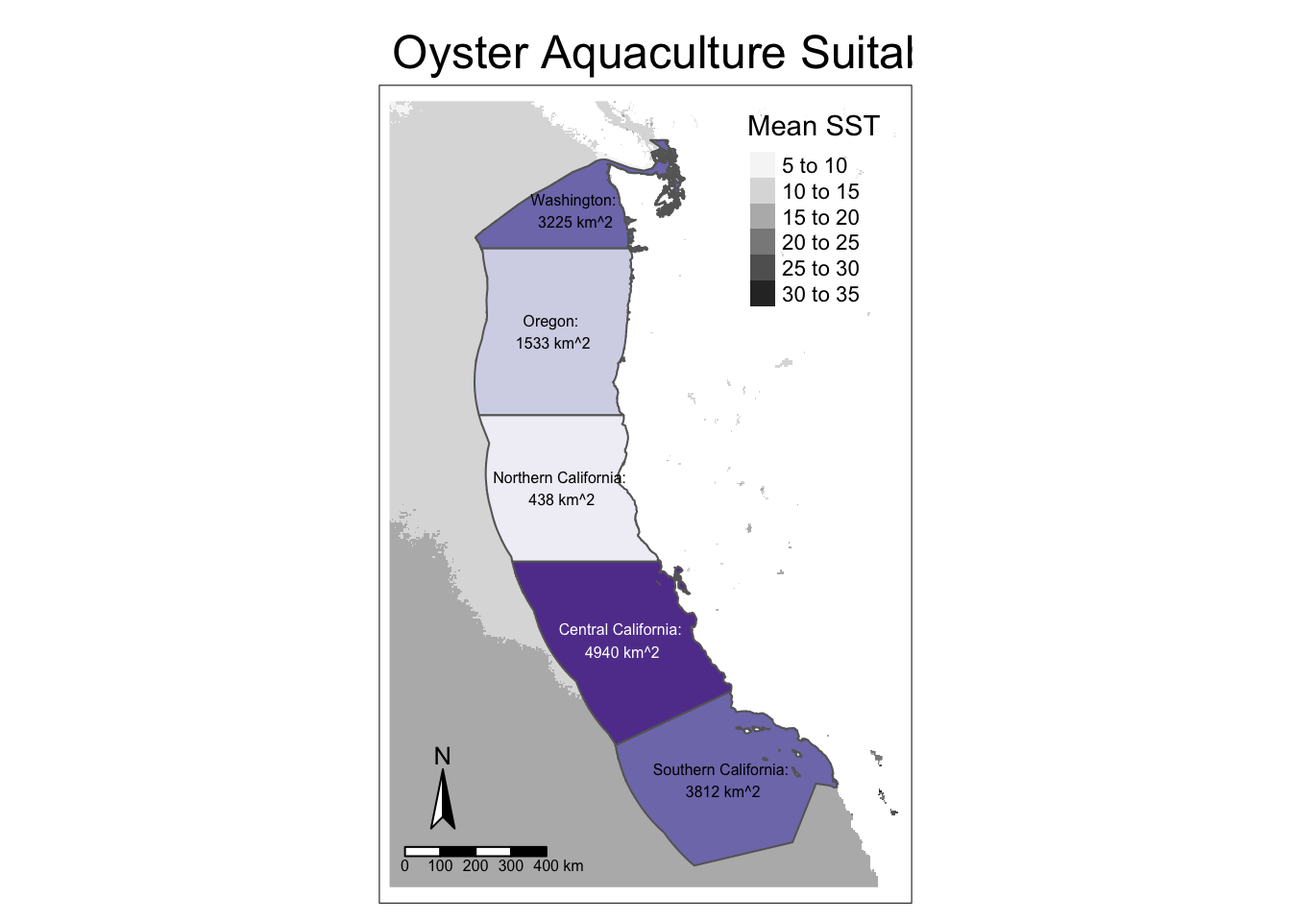
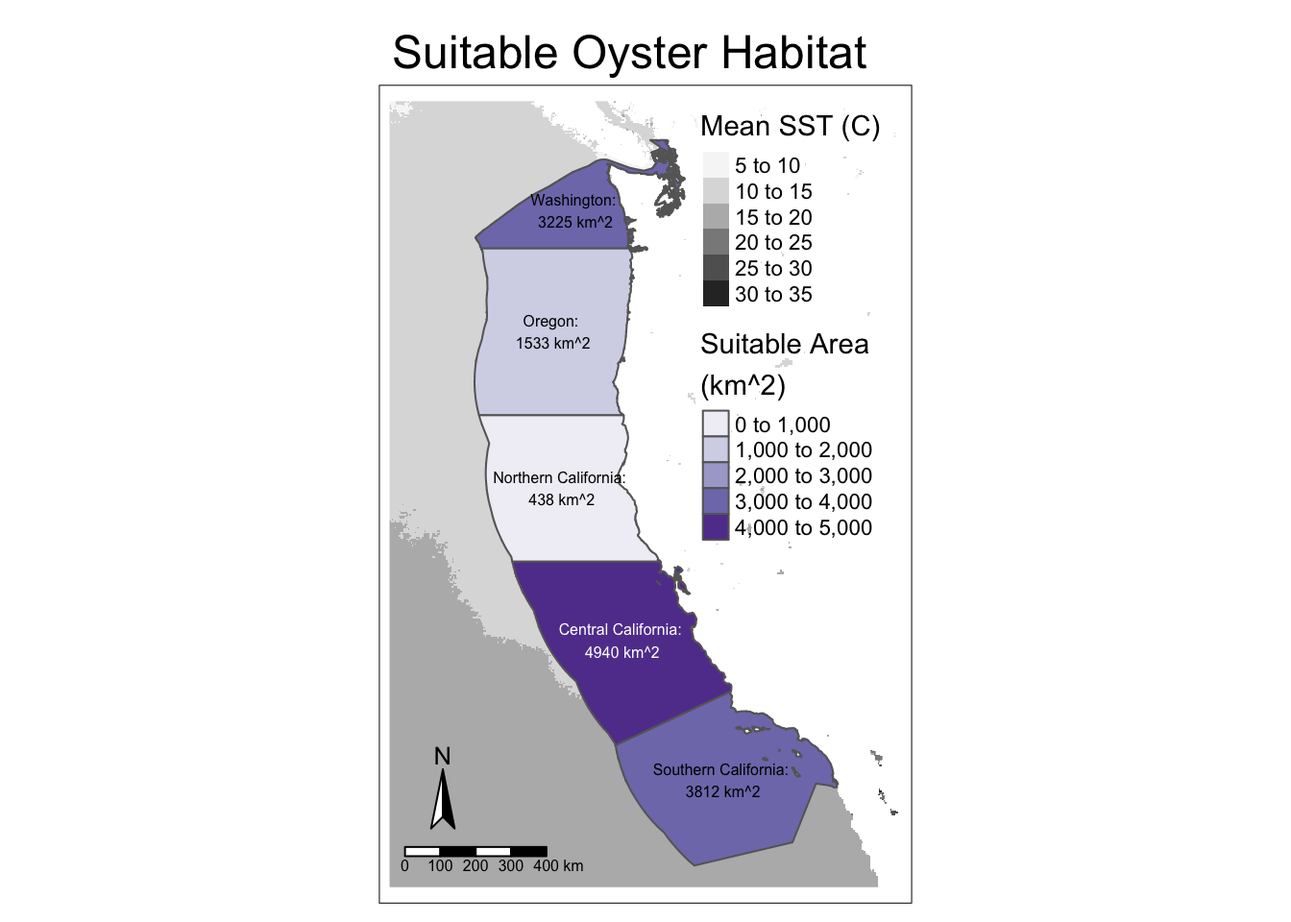
Final touches to HW4.

Changed region(s): [[0.5312, 0.125, 0.6875, 0.5938], [0.2812, 0.0312, 0.7188, 0.0938]]

diff --git a/functions.html b/functions.html
@@ -7,9 +7,9 @@
 <meta name="viewport" content="width=device-width, initial-scale=1.0, user-scalable=yes">
 
 <meta name="author" content="Carmen Hoyt">
-<meta name="dcterms.date" content="2024-11-29">
+<meta name="dcterms.date" content="2024-11-30">
 
-<title>Homework Assignment #4 Functions</title>
+<title>Homework Assignment #4: Prioritizing Potential Aquaculture</title>
 <style>
 code{white-space: pre-wrap;}
 span.smallcaps{font-variant: small-caps;}
@@ -83,7 +83,8 @@ pre > code.sourceCode > span > a:first-child::before { text-decoration: underlin
   <ul>
   <li><a href="#import-packages" id="toc-import-packages" class="nav-link active" data-scroll-target="#import-packages">Import packages</a></li>
   <li><a href="#read-in-data" id="toc-read-in-data" class="nav-link" data-scroll-target="#read-in-data">Read in data</a></li>
-  <li><a href="#suitability-function" id="toc-suitability-function" class="nav-link" data-scroll-target="#suitability-function">Suitability Function:</a></li>
+  <li><a href="#suitability-function" id="toc-suitability-function" class="nav-link" data-scroll-target="#suitability-function">Suitability Function</a></li>
+  <li><a href="#use-function" id="toc-use-function" class="nav-link" data-scroll-target="#use-function">Use Function</a></li>
   <li><a href="#data-sources" id="toc-data-sources" class="nav-link" data-scroll-target="#data-sources">Data Sources</a></li>
   </ul>
 </nav>
@@ -92,8 +93,8 @@ pre > code.sourceCode > span > a:first-child::before { text-decoration: underlin
 
 <header id="title-block-header" class="quarto-title-block default">
 <div class="quarto-title">
-<h1 class="title">Homework Assignment #4 Functions</h1>
-<p class="subtitle lead">Prioritizing potential aquaculture</p>
+<h1 class="title">Homework Assignment #4: Prioritizing Potential Aquaculture</h1>
+<p class="subtitle lead">Suitability Function</p>
 </div>
 
 
@@ -110,7 +111,7 @@ pre > code.sourceCode > span > a:first-child::before { text-decoration: underlin
     <div>
     <div class="quarto-title-meta-heading">Published</div>
     <div class="quarto-title-meta-contents">
-      <p class="date">November 29, 2024</p>
+      <p class="date">November 30, 2024</p>
     </div>
   </div>
   
@@ -143,7 +144,7 @@ pre > code.sourceCode > span > a:first-child::before { text-decoration: underlin
 <h2 class="anchored" data-anchor-id="read-in-data">Read in data</h2>
 <div class="cell">
 <details class="code-fold">
-<summary>Code</summary>
+<summary>Expand code</summary>
 <div class="sourceCode cell-code" id="cb2"><pre class="sourceCode r code-with-copy"><code class="sourceCode r"><span id="cb2-1"><a href="#cb2-1" aria-hidden="true" tabindex="-1"></a><span class="co"># Read in EEZ data</span></span>
 <span id="cb2-2"><a href="#cb2-2" aria-hidden="true" tabindex="-1"></a>west_coast_eez <span class="ot">&lt;-</span> <span class="fu">read_sf</span>(here<span class="sc">::</span><span class="fu">here</span>(<span class="st">"data"</span>, <span class="st">"wc_regions_clean.shp"</span>))</span>
 <span id="cb2-3"><a href="#cb2-3" aria-hidden="true" tabindex="-1"></a></span>
@@ -151,7 +152,7 @@ pre > code.sourceCode > span > a:first-child::before { text-decoration: underlin
 <span id="cb2-5"><a href="#cb2-5" aria-hidden="true" tabindex="-1"></a>bathymetry <span class="ot">&lt;-</span> stars<span class="sc">::</span><span class="fu">read_stars</span>(here<span class="sc">::</span><span class="fu">here</span>(<span class="st">"data"</span>, <span class="st">"depth.tif"</span>))</span>
 <span id="cb2-6"><a href="#cb2-6" aria-hidden="true" tabindex="-1"></a>bathymetry <span class="ot">&lt;-</span> <span class="fu">rast</span>(bathymetry)</span>
 <span id="cb2-7"><a href="#cb2-7" aria-hidden="true" tabindex="-1"></a></span>
-<span id="cb2-8"><a href="#cb2-8" aria-hidden="true" tabindex="-1"></a><span class="co"># Read in and rasterize sst data</span></span>
+<span id="cb2-8"><a href="#cb2-8" aria-hidden="true" tabindex="-1"></a><span class="co"># Read in and rasterize SST (sea surface temp) data</span></span>
 <span id="cb2-9"><a href="#cb2-9" aria-hidden="true" tabindex="-1"></a>sst_rasters <span class="ot">&lt;-</span> <span class="fu">list.files</span>(<span class="fu">here</span>(<span class="st">"data"</span>), <span class="at">pattern =</span> <span class="fu">glob2rx</span>(<span class="st">"average_annual*"</span>), <span class="at">full.names =</span> <span class="cn">TRUE</span>)</span>
 <span id="cb2-10"><a href="#cb2-10" aria-hidden="true" tabindex="-1"></a></span>
 <span id="cb2-11"><a href="#cb2-11" aria-hidden="true" tabindex="-1"></a><span class="cf">for</span> (i <span class="cf">in</span> <span class="fu">seq_along</span>(sst_rasters)) {</span>
@@ -173,7 +174,7 @@ pre > code.sourceCode > span > a:first-child::before { text-decoration: underlin
 <span id="cb2-27"><a href="#cb2-27" aria-hidden="true" tabindex="-1"></a><span class="co"># Find mean SST</span></span>
 <span id="cb2-28"><a href="#cb2-28" aria-hidden="true" tabindex="-1"></a>avg_sst <span class="ot">&lt;-</span> <span class="fu">mean</span>(sst, <span class="at">na.rm =</span> <span class="cn">TRUE</span>)</span>
 <span id="cb2-29"><a href="#cb2-29" aria-hidden="true" tabindex="-1"></a></span>
-<span id="cb2-30"><a href="#cb2-30" aria-hidden="true" tabindex="-1"></a><span class="co"># Convert from K to C</span></span>
+<span id="cb2-30"><a href="#cb2-30" aria-hidden="true" tabindex="-1"></a><span class="co"># Convert from Kelvin to Celsius</span></span>
 <span id="cb2-31"><a href="#cb2-31" aria-hidden="true" tabindex="-1"></a>avg_sst <span class="ot">&lt;-</span> avg_sst <span class="sc">-</span> <span class="fl">273.15</span></span>
 <span id="cb2-32"><a href="#cb2-32" aria-hidden="true" tabindex="-1"></a></span>
 <span id="cb2-33"><a href="#cb2-33" aria-hidden="true" tabindex="-1"></a><span class="co"># Clip bathymetry to same extent as SST</span></span>
@@ -182,127 +183,131 @@ pre > code.sourceCode > span > a:first-child::before { text-decoration: underlin
 <span id="cb2-36"><a href="#cb2-36" aria-hidden="true" tabindex="-1"></a><span class="co"># Resample depth to match SST resolution</span></span>
 <span id="cb2-37"><a href="#cb2-37" aria-hidden="true" tabindex="-1"></a>depth_resample <span class="ot">&lt;-</span> terra<span class="sc">::</span><span class="fu">resample</span>(depth, <span class="at">y =</span> avg_sst, <span class="at">method =</span> <span class="st">"near"</span>)</span>
 <span id="cb2-38"><a href="#cb2-38" aria-hidden="true" tabindex="-1"></a></span>
-<span id="cb2-39"><a href="#cb2-39" aria-hidden="true" tabindex="-1"></a><span class="co"># SST and depth rasters</span></span>
+<span id="cb2-39"><a href="#cb2-39" aria-hidden="true" tabindex="-1"></a><span class="co"># Stack SST and depth rasters</span></span>
 <span id="cb2-40"><a href="#cb2-40" aria-hidden="true" tabindex="-1"></a>stack <span class="ot">&lt;-</span> <span class="fu">c</span>(sst, depth_resample)</span></code><button title="Copy to Clipboard" class="code-copy-button"><i class="bi"></i></button></pre></div>
 </details>
 </div>
 </section>
 <section id="suitability-function" class="level2">
-<h2 class="anchored" data-anchor-id="suitability-function">Suitability Function:</h2>
-<p>The function <code>suitability(species_name, min_temp, max_temp, min_depth, max_depth)</code> takes the following arguments:</p>
+<h2 class="anchored" data-anchor-id="suitability-function">Suitability Function</h2>
+<p>The function <code>suitability()</code> takes the following arguments (in order):</p>
 <ul>
-<li><p>species_name: the name of the species as a string</p></li>
-<li><p>min_temp: minimum sea surface temperature (degrees Celsius)</p></li>
-<li><p>max_temp: maximum sea surface temperature (degrees Celsius)</p></li>
-<li><p>min_depth: the absolute value of the shallowest depth (meters)</p></li>
-<li><p>max_depth: the absolute value of the deepest depth (meters)</p></li>
+<li><p><code>species_name</code>: the name of the species (as a string)</p></li>
+<li><p><code>min_temp</code>: minimum sea surface temperature (degrees Celsius)</p></li>
+<li><p><code>max_temp</code>: maximum sea surface temperature (degrees Celsius)</p></li>
+<li><p><code>min_depth</code>: the absolute value of the shallowest preferred depth (meters)</p></li>
+<li><p><code>max_depth</code>: the absolute value of the deepest preferred depth (meters)</p></li>
 </ul>
-<p>It produces a map of West Coast EEZ regions colored by amount of area associated with suitable growing conditions for the species of interest.</p>
+<p>The final product is a map of West Coast EEZ regions colored by area (km^2) associated with suitable growing conditions for the species of interest.</p>
+<p>Example: <code>suitability("Abalone", 8, 18, 0, 24)</code> where:</p>
+<ul>
+<li><p><code>species_name</code>: “Abalone”</p></li>
+<li><p><code>min_temp</code>: 8 (degrees C)</p></li>
+<li><p><code>max_temp</code>: 18 (degrees C)</p></li>
+<li><p><code>min_depth</code>: 0 (meters)</p></li>
+<li><p><code>max_depth</code>: 24 (meters)</p></li>
+</ul>
 <div class="cell">
 <details class="code-fold">
-<summary>Code</summary>
-<div class="sourceCode cell-code" id="cb3"><pre class="sourceCode r code-with-copy"><code class="sourceCode r"><span id="cb3-1"><a href="#cb3-1" aria-hidden="true" tabindex="-1"></a>suitability <span class="ot">&lt;-</span> <span class="cf">function</span>(species_name, min_temp, max_temp, min_depth, max_depth) {</span>
-<span id="cb3-2"><a href="#cb3-2" aria-hidden="true" tabindex="-1"></a>  </span>
-<span id="cb3-3"><a href="#cb3-3" aria-hidden="true" tabindex="-1"></a>  species_name <span class="ot">=</span> species_name</span>
-<span id="cb3-4"><a href="#cb3-4" aria-hidden="true" tabindex="-1"></a>  </span>
-<span id="cb3-5"><a href="#cb3-5" aria-hidden="true" tabindex="-1"></a>  <span class="co"># Suitable temperatures</span></span>
-<span id="cb3-6"><a href="#cb3-6" aria-hidden="true" tabindex="-1"></a>  rcl_temp <span class="ot">&lt;-</span> <span class="fu">matrix</span>(<span class="fu">c</span>(<span class="sc">-</span><span class="cn">Inf</span>, min_temp, <span class="dv">0</span>, <span class="co"># min, max, group</span></span>
-<span id="cb3-7"><a href="#cb3-7" aria-hidden="true" tabindex="-1"></a>               min_temp, max_temp, <span class="dv">1</span>,</span>
-<span id="cb3-8"><a href="#cb3-8" aria-hidden="true" tabindex="-1"></a>               max_temp, <span class="cn">Inf</span>, <span class="dv">0</span>),</span>
-<span id="cb3-9"><a href="#cb3-9" aria-hidden="true" tabindex="-1"></a>             <span class="at">ncol =</span> <span class="dv">3</span>, <span class="at">byrow =</span> <span class="cn">TRUE</span>)</span>
-<span id="cb3-10"><a href="#cb3-10" aria-hidden="true" tabindex="-1"></a></span>
-<span id="cb3-11"><a href="#cb3-11" aria-hidden="true" tabindex="-1"></a>  sst_suitable <span class="ot">&lt;-</span> terra<span class="sc">::</span><span class="fu">classify</span>(avg_sst, <span class="at">rcl =</span> rcl_temp)</span>
+<summary>Expand code</summary>
+<div class="sourceCode cell-code" id="cb3"><pre class="sourceCode r code-with-copy"><code class="sourceCode r"><span id="cb3-1"><a href="#cb3-1" aria-hidden="true" tabindex="-1"></a><span class="co"># Create suitability function</span></span>
+<span id="cb3-2"><a href="#cb3-2" aria-hidden="true" tabindex="-1"></a>suitability <span class="ot">&lt;-</span> <span class="cf">function</span>(species_name, min_temp, max_temp, min_depth, max_depth) {</span>
+<span id="cb3-3"><a href="#cb3-3" aria-hidden="true" tabindex="-1"></a>  </span>
+<span id="cb3-4"><a href="#cb3-4" aria-hidden="true" tabindex="-1"></a>  <span class="co"># Save species name</span></span>
+<span id="cb3-5"><a href="#cb3-5" aria-hidden="true" tabindex="-1"></a>  species_name <span class="ot">=</span> species_name</span>
+<span id="cb3-6"><a href="#cb3-6" aria-hidden="true" tabindex="-1"></a>  </span>
+<span id="cb3-7"><a href="#cb3-7" aria-hidden="true" tabindex="-1"></a>  <span class="co"># Reclassify temp raster for suitable temperatures</span></span>
+<span id="cb3-8"><a href="#cb3-8" aria-hidden="true" tabindex="-1"></a>  rcl_temp <span class="ot">&lt;-</span> <span class="fu">matrix</span>(<span class="fu">c</span>(<span class="sc">-</span><span class="cn">Inf</span>, min_temp, <span class="dv">0</span>, <span class="co"># min, max, group</span></span>
+<span id="cb3-9"><a href="#cb3-9" aria-hidden="true" tabindex="-1"></a>               min_temp, max_temp, <span class="dv">1</span>,</span>
+<span id="cb3-10"><a href="#cb3-10" aria-hidden="true" tabindex="-1"></a>               max_temp, <span class="cn">Inf</span>, <span class="dv">0</span>),</span>
+<span id="cb3-11"><a href="#cb3-11" aria-hidden="true" tabindex="-1"></a>             <span class="at">ncol =</span> <span class="dv">3</span>, <span class="at">byrow =</span> <span class="cn">TRUE</span>)</span>
 <span id="cb3-12"><a href="#cb3-12" aria-hidden="true" tabindex="-1"></a></span>
-<span id="cb3-13"><a href="#cb3-13" aria-hidden="true" tabindex="-1"></a>  <span class="co"># Suitable depths</span></span>
-<span id="cb3-14"><a href="#cb3-14" aria-hidden="true" tabindex="-1"></a>  rcl_depth <span class="ot">&lt;-</span> <span class="fu">matrix</span>(<span class="fu">c</span>(<span class="sc">-</span><span class="cn">Inf</span>, <span class="sc">-</span>max_depth, <span class="dv">0</span>, <span class="co"># min, max, group</span></span>
-<span id="cb3-15"><a href="#cb3-15" aria-hidden="true" tabindex="-1"></a>               <span class="sc">-</span>max_depth, <span class="sc">-</span>min_depth, <span class="dv">1</span>,</span>
-<span id="cb3-16"><a href="#cb3-16" aria-hidden="true" tabindex="-1"></a>               <span class="sc">-</span>min_depth, <span class="cn">Inf</span>, <span class="dv">0</span>),</span>
-<span id="cb3-17"><a href="#cb3-17" aria-hidden="true" tabindex="-1"></a>             <span class="at">ncol =</span> <span class="dv">3</span>, <span class="at">byrow =</span> <span class="cn">TRUE</span>)</span>
-<span id="cb3-18"><a href="#cb3-18" aria-hidden="true" tabindex="-1"></a></span>
-<span id="cb3-19"><a href="#cb3-19" aria-hidden="true" tabindex="-1"></a>  depth_suitable <span class="ot">&lt;-</span> terra<span class="sc">::</span><span class="fu">classify</span>(depth_resample, <span class="at">rcl =</span> rcl_depth)</span>
+<span id="cb3-13"><a href="#cb3-13" aria-hidden="true" tabindex="-1"></a>  sst_suitable <span class="ot">&lt;-</span> terra<span class="sc">::</span><span class="fu">classify</span>(avg_sst, <span class="at">rcl =</span> rcl_temp)</span>
+<span id="cb3-14"><a href="#cb3-14" aria-hidden="true" tabindex="-1"></a></span>
+<span id="cb3-15"><a href="#cb3-15" aria-hidden="true" tabindex="-1"></a>  <span class="co"># Reclassify depth raster for suitable depths</span></span>
+<span id="cb3-16"><a href="#cb3-16" aria-hidden="true" tabindex="-1"></a>  rcl_depth <span class="ot">&lt;-</span> <span class="fu">matrix</span>(<span class="fu">c</span>(<span class="sc">-</span><span class="cn">Inf</span>, <span class="sc">-</span>max_depth, <span class="dv">0</span>, <span class="co"># min, max, group</span></span>
+<span id="cb3-17"><a href="#cb3-17" aria-hidden="true" tabindex="-1"></a>               <span class="sc">-</span>max_depth, <span class="sc">-</span>min_depth, <span class="dv">1</span>,</span>
+<span id="cb3-18"><a href="#cb3-18" aria-hidden="true" tabindex="-1"></a>               <span class="sc">-</span>min_depth, <span class="cn">Inf</span>, <span class="dv">0</span>),</span>
+<span id="cb3-19"><a href="#cb3-19" aria-hidden="true" tabindex="-1"></a>             <span class="at">ncol =</span> <span class="dv">3</span>, <span class="at">byrow =</span> <span class="cn">TRUE</span>)</span>
 <span id="cb3-20"><a href="#cb3-20" aria-hidden="true" tabindex="-1"></a></span>
-<span id="cb3-21"><a href="#cb3-21" aria-hidden="true" tabindex="-1"></a>  <span class="co"># Apply function (raster multiplication) to SST and depth stack</span></span>
-<span id="cb3-22"><a href="#cb3-22" aria-hidden="true" tabindex="-1"></a>  fun <span class="ot">&lt;-</span> <span class="cf">function</span>(x,y){<span class="fu">return</span>(x<span class="sc">*</span>y)}</span>
-<span id="cb3-23"><a href="#cb3-23" aria-hidden="true" tabindex="-1"></a>  stack <span class="ot">&lt;-</span> <span class="fu">c</span>(sst_suitable, depth_suitable)</span>
-<span id="cb3-24"><a href="#cb3-24" aria-hidden="true" tabindex="-1"></a>  suitable_raster <span class="ot">&lt;-</span> <span class="fu">lapp</span>(stack, fun)</span>
-<span id="cb3-25"><a href="#cb3-25" aria-hidden="true" tabindex="-1"></a></span>
-<span id="cb3-26"><a href="#cb3-26" aria-hidden="true" tabindex="-1"></a>  <span class="co"># Replace 0 values with NA</span></span>
-<span id="cb3-27"><a href="#cb3-27" aria-hidden="true" tabindex="-1"></a>  suitable_raster[suitable_raster <span class="sc">==</span> <span class="dv">0</span>] <span class="ot">&lt;-</span> <span class="cn">NA</span></span>
-<span id="cb3-28"><a href="#cb3-28" aria-hidden="true" tabindex="-1"></a>  </span>
-<span id="cb3-29"><a href="#cb3-29" aria-hidden="true" tabindex="-1"></a>  <span class="co"># Find suitable area masked to US EEZ extent</span></span>
-<span id="cb3-30"><a href="#cb3-30" aria-hidden="true" tabindex="-1"></a>  suitable_raster <span class="ot">&lt;-</span> <span class="fu">mask</span>(suitable_raster, west_coast_eez)</span>
-<span id="cb3-31"><a href="#cb3-31" aria-hidden="true" tabindex="-1"></a>  </span>
-<span id="cb3-32"><a href="#cb3-32" aria-hidden="true" tabindex="-1"></a>  <span class="co"># Rasterize the EEZ</span></span>
-<span id="cb3-33"><a href="#cb3-33" aria-hidden="true" tabindex="-1"></a>  eez_raster <span class="ot">&lt;-</span> <span class="fu">rasterize</span>(west_coast_eez, stack, <span class="st">"rgn"</span>)</span>
-<span id="cb3-34"><a href="#cb3-34" aria-hidden="true" tabindex="-1"></a>  </span>
-<span id="cb3-35"><a href="#cb3-35" aria-hidden="true" tabindex="-1"></a>  <span class="co"># Find the size of each cell in suitable_raster</span></span>
-<span id="cb3-36"><a href="#cb3-36" aria-hidden="true" tabindex="-1"></a>  cell_size <span class="ot">&lt;-</span> <span class="fu">cellSize</span>(suitable_raster, <span class="at">unit =</span> <span class="st">"km"</span>)</span>
-<span id="cb3-37"><a href="#cb3-37" aria-hidden="true" tabindex="-1"></a>  </span>
-<span id="cb3-38"><a href="#cb3-38" aria-hidden="true" tabindex="-1"></a>  <span class="co"># Create a dataframe for total suitable area for each EEZ</span></span>
-<span id="cb3-39"><a href="#cb3-39" aria-hidden="true" tabindex="-1"></a>  area <span class="ot">&lt;-</span> <span class="fu">data.frame</span>((<span class="fu">zonal</span>(cell_size<span class="sc">*</span>suitable_raster, </span>
-<span id="cb3-40"><a href="#cb3-40" aria-hidden="true" tabindex="-1"></a>                                      <span class="at">z =</span> eez_raster, </span>
-<span id="cb3-41"><a href="#cb3-41" aria-hidden="true" tabindex="-1"></a>                                      <span class="at">fun =</span><span class="st">"sum"</span>, </span>
-<span id="cb3-42"><a href="#cb3-42" aria-hidden="true" tabindex="-1"></a>                                      <span class="at">na.rm =</span> <span class="cn">TRUE</span>)))</span>
-<span id="cb3-43"><a href="#cb3-43" aria-hidden="true" tabindex="-1"></a>  </span>
-<span id="cb3-44"><a href="#cb3-44" aria-hidden="true" tabindex="-1"></a>  <span class="co"># Create geo-dataframe to map</span></span>
-<span id="cb3-45"><a href="#cb3-45" aria-hidden="true" tabindex="-1"></a>  map_df <span class="ot">&lt;-</span> <span class="fu">left_join</span>(west_coast_eez, area, <span class="at">by =</span> <span class="st">'rgn'</span>) <span class="sc">%&gt;%</span></span>
-<span id="cb3-46"><a href="#cb3-46" aria-hidden="true" tabindex="-1"></a>  <span class="fu">select</span>(<span class="st">'rgn'</span>, <span class="st">'area'</span>, <span class="st">'area_km2'</span>) <span class="sc">%&gt;%</span></span>
-<span id="cb3-47"><a href="#cb3-47" aria-hidden="true" tabindex="-1"></a>  <span class="fu">mutate</span>(<span class="at">area_rounded =</span> <span class="fu">round</span>(area),</span>
-<span id="cb3-48"><a href="#cb3-48" aria-hidden="true" tabindex="-1"></a>         <span class="at">Percent =</span> <span class="fu">round</span>(area<span class="sc">/</span>area_km2<span class="sc">*</span><span class="dv">100</span>, <span class="dv">2</span>)) <span class="sc">%&gt;%</span></span>
-<span id="cb3-49"><a href="#cb3-49" aria-hidden="true" tabindex="-1"></a>  <span class="fu">mutate</span>(<span class="at">labels =</span> <span class="fu">paste0</span>(rgn, <span class="st">": "</span>, <span class="st">"</span><span class="sc">\n</span><span class="st">"</span>, area_rounded, <span class="st">" km^2"</span>))</span>
-<span id="cb3-50"><a href="#cb3-50" aria-hidden="true" tabindex="-1"></a></span>
-<span id="cb3-51"><a href="#cb3-51" aria-hidden="true" tabindex="-1"></a>  <span class="co"># Create suitability table</span></span>
-<span id="cb3-52"><a href="#cb3-52" aria-hidden="true" tabindex="-1"></a>  suitability_table <span class="ot">&lt;-</span> map_df <span class="sc">%&gt;%</span></span>
-<span id="cb3-53"><a href="#cb3-53" aria-hidden="true" tabindex="-1"></a>  <span class="fu">st_drop_geometry</span>() <span class="sc">%&gt;%</span></span>
-<span id="cb3-54"><a href="#cb3-54" aria-hidden="true" tabindex="-1"></a>  <span class="fu">select</span>(rgn, area_rounded, area_km2, Percent) <span class="sc">%&gt;%</span></span>
-<span id="cb3-55"><a href="#cb3-55" aria-hidden="true" tabindex="-1"></a>  <span class="fu">rename</span>(<span class="at">Region =</span> rgn,</span>
-<span id="cb3-56"><a href="#cb3-56" aria-hidden="true" tabindex="-1"></a>         <span class="st">"Suitable Area (km^2)"</span> <span class="ot">=</span> area_rounded,</span>
-<span id="cb3-57"><a href="#cb3-57" aria-hidden="true" tabindex="-1"></a>         <span class="st">"Total Area (km^2)"</span> <span class="ot">=</span> area_km2) <span class="sc">%&gt;%</span></span>
-<span id="cb3-58"><a href="#cb3-58" aria-hidden="true" tabindex="-1"></a>  <span class="fu">kbl</span>() <span class="sc">%&gt;%</span></span>
-<span id="cb3-59"><a href="#cb3-59" aria-hidden="true" tabindex="-1"></a>  <span class="fu">kable_styling</span>()</span>
-<span id="cb3-60"><a href="#cb3-60" aria-hidden="true" tabindex="-1"></a>  table_name <span class="ot">&lt;-</span> <span class="fu">paste0</span>(<span class="fu">str_replace</span>(species_name, <span class="st">" "</span>, <span class="st">"_"</span>), <span class="st">"_table"</span>)</span>
-<span id="cb3-61"><a href="#cb3-61" aria-hidden="true" tabindex="-1"></a>  <span class="fu">assign</span>(table_name, suitability_table)</span>
-<span id="cb3-62"><a href="#cb3-62" aria-hidden="true" tabindex="-1"></a>  </span>
-<span id="cb3-63"><a href="#cb3-63" aria-hidden="true" tabindex="-1"></a>  <span class="co"># Map suitable region</span></span>
-<span id="cb3-64"><a href="#cb3-64" aria-hidden="true" tabindex="-1"></a>  suitability_map <span class="ot">&lt;-</span> <span class="fu">tm_shape</span>(avg_sst) <span class="sc">+</span></span>
-<span id="cb3-65"><a href="#cb3-65" aria-hidden="true" tabindex="-1"></a>    <span class="fu">tm_raster</span>(<span class="at">palette =</span> <span class="st">"Greys"</span>,</span>
-<span id="cb3-66"><a href="#cb3-66" aria-hidden="true" tabindex="-1"></a>            <span class="at">title =</span> <span class="st">"Mean SST (C)"</span>) <span class="sc">+</span></span>
-<span id="cb3-67"><a href="#cb3-67" aria-hidden="true" tabindex="-1"></a>  <span class="fu">tm_shape</span>(map_df) <span class="sc">+</span></span>
-<span id="cb3-68"><a href="#cb3-68" aria-hidden="true" tabindex="-1"></a>    <span class="fu">tm_polygons</span>(<span class="at">title =</span> <span class="st">"EEZ Region"</span>,</span>
-<span id="cb3-69"><a href="#cb3-69" aria-hidden="true" tabindex="-1"></a>              <span class="at">col =</span> <span class="st">'area_rounded'</span>,</span>
-<span id="cb3-70"><a href="#cb3-70" aria-hidden="true" tabindex="-1"></a>              <span class="at">palette =</span> <span class="st">"Purples"</span>,</span>
-<span id="cb3-71"><a href="#cb3-71" aria-hidden="true" tabindex="-1"></a>              <span class="at">legend.show =</span> <span class="cn">FALSE</span>) <span class="sc">+</span></span>
-<span id="cb3-72"><a href="#cb3-72" aria-hidden="true" tabindex="-1"></a>  <span class="fu">tm_text</span>(<span class="st">"labels"</span>, <span class="at">size =</span> <span class="dv">1</span><span class="sc">/</span><span class="dv">2</span>) <span class="sc">+</span></span>
-<span id="cb3-73"><a href="#cb3-73" aria-hidden="true" tabindex="-1"></a>  <span class="fu">tm_layout</span>(<span class="at">main.title =</span> <span class="fu">paste</span>(species_name, <span class="st">"Suitability"</span>),</span>
-<span id="cb3-74"><a href="#cb3-74" aria-hidden="true" tabindex="-1"></a>          <span class="at">legend.position =</span> <span class="fu">c</span>(<span class="st">"right"</span>, <span class="st">"top"</span>),</span>
-<span id="cb3-75"><a href="#cb3-75" aria-hidden="true" tabindex="-1"></a>          <span class="at">bg.color =</span> <span class="st">"white"</span>,</span>
-<span id="cb3-76"><a href="#cb3-76" aria-hidden="true" tabindex="-1"></a>          <span class="at">legend.outside =</span> <span class="cn">FALSE</span>) <span class="sc">+</span></span>
-<span id="cb3-77"><a href="#cb3-77" aria-hidden="true" tabindex="-1"></a>  <span class="fu">tm_compass</span>(<span class="at">position =</span> <span class="fu">c</span>(<span class="st">"left"</span>, <span class="st">"bottom"</span>)) <span class="sc">+</span></span>
-<span id="cb3-78"><a href="#cb3-78" aria-hidden="true" tabindex="-1"></a>  <span class="fu">tm_scale_bar</span>(<span class="at">position =</span> <span class="fu">c</span>(<span class="st">"left"</span>, <span class="st">"bottom"</span>))</span>
-<span id="cb3-79"><a href="#cb3-79" aria-hidden="true" tabindex="-1"></a>  map_name <span class="ot">&lt;-</span> <span class="fu">paste0</span>(species_name, <span class="st">"_map"</span>)</span>
-<span id="cb3-80"><a href="#cb3-80" aria-hidden="true" tabindex="-1"></a>  <span class="fu">assign</span>(map_name, suitability_map)</span>
-<span id="cb3-81"><a href="#cb3-81" aria-hidden="true" tabindex="-1"></a>  </span>
-<span id="cb3-82"><a href="#cb3-82" aria-hidden="true" tabindex="-1"></a>  <span class="co"># Save outputs</span></span>
-<span id="cb3-83"><a href="#cb3-83" aria-hidden="true" tabindex="-1"></a>  <span class="fu">return</span>(suitability_map)</span>
-<span id="cb3-84"><a href="#cb3-84" aria-hidden="true" tabindex="-1"></a>}</span>
-<span id="cb3-85"><a href="#cb3-85" aria-hidden="true" tabindex="-1"></a></span>
-<span id="cb3-86"><a href="#cb3-86" aria-hidden="true" tabindex="-1"></a><span class="fu">suitability</span>(<span class="st">"Oyster"</span>, <span class="dv">11</span>, <span class="dv">30</span>, <span class="dv">0</span>, <span class="dv">70</span>)</span></code><button title="Copy to Clipboard" class="code-copy-button"><i class="bi"></i></button></pre></div>
+<span id="cb3-21"><a href="#cb3-21" aria-hidden="true" tabindex="-1"></a>  depth_suitable <span class="ot">&lt;-</span> terra<span class="sc">::</span><span class="fu">classify</span>(depth_resample, <span class="at">rcl =</span> rcl_depth)</span>
+<span id="cb3-22"><a href="#cb3-22" aria-hidden="true" tabindex="-1"></a></span>
+<span id="cb3-23"><a href="#cb3-23" aria-hidden="true" tabindex="-1"></a>  <span class="co"># Stack the two reclassified temp and depth rasters and multiply to find where suitability overlaps </span></span>
+<span id="cb3-24"><a href="#cb3-24" aria-hidden="true" tabindex="-1"></a>  fun <span class="ot">&lt;-</span> <span class="cf">function</span>(x,y){<span class="fu">return</span>(x<span class="sc">*</span>y)}</span>
+<span id="cb3-25"><a href="#cb3-25" aria-hidden="true" tabindex="-1"></a>  stack <span class="ot">&lt;-</span> <span class="fu">c</span>(sst_suitable, depth_suitable)</span>
+<span id="cb3-26"><a href="#cb3-26" aria-hidden="true" tabindex="-1"></a>  suitable_raster <span class="ot">&lt;-</span> <span class="fu">lapp</span>(stack, fun)</span>
+<span id="cb3-27"><a href="#cb3-27" aria-hidden="true" tabindex="-1"></a></span>
+<span id="cb3-28"><a href="#cb3-28" aria-hidden="true" tabindex="-1"></a>  <span class="co"># Replace 0 values with NA</span></span>
+<span id="cb3-29"><a href="#cb3-29" aria-hidden="true" tabindex="-1"></a>  suitable_raster[suitable_raster <span class="sc">==</span> <span class="dv">0</span>] <span class="ot">&lt;-</span> <span class="cn">NA</span></span>
+<span id="cb3-30"><a href="#cb3-30" aria-hidden="true" tabindex="-1"></a>  </span>
+<span id="cb3-31"><a href="#cb3-31" aria-hidden="true" tabindex="-1"></a>  <span class="co"># Find suitable area masked to US EEZ extent</span></span>
+<span id="cb3-32"><a href="#cb3-32" aria-hidden="true" tabindex="-1"></a>  suitable_raster <span class="ot">&lt;-</span> <span class="fu">mask</span>(suitable_raster, west_coast_eez)</span>
+<span id="cb3-33"><a href="#cb3-33" aria-hidden="true" tabindex="-1"></a>  </span>
+<span id="cb3-34"><a href="#cb3-34" aria-hidden="true" tabindex="-1"></a>  <span class="co"># Rasterize the EEZ to calculate area</span></span>
+<span id="cb3-35"><a href="#cb3-35" aria-hidden="true" tabindex="-1"></a>  eez_raster <span class="ot">&lt;-</span> <span class="fu">rasterize</span>(west_coast_eez, stack, <span class="st">"rgn"</span>)</span>
+<span id="cb3-36"><a href="#cb3-36" aria-hidden="true" tabindex="-1"></a>  </span>
+<span id="cb3-37"><a href="#cb3-37" aria-hidden="true" tabindex="-1"></a>  <span class="co"># Find the size of each cell in suitable_raster</span></span>
+<span id="cb3-38"><a href="#cb3-38" aria-hidden="true" tabindex="-1"></a>  cell_size <span class="ot">&lt;-</span> <span class="fu">cellSize</span>(suitable_raster, <span class="at">unit =</span> <span class="st">"km"</span>)</span>
+<span id="cb3-39"><a href="#cb3-39" aria-hidden="true" tabindex="-1"></a>  </span>
+<span id="cb3-40"><a href="#cb3-40" aria-hidden="true" tabindex="-1"></a>  <span class="co"># Calculate total suitable area for each EEZ and save as a dataframe</span></span>
+<span id="cb3-41"><a href="#cb3-41" aria-hidden="true" tabindex="-1"></a>  area <span class="ot">&lt;-</span> <span class="fu">data.frame</span>((<span class="fu">zonal</span>(cell_size<span class="sc">*</span>suitable_raster, </span>
+<span id="cb3-42"><a href="#cb3-42" aria-hidden="true" tabindex="-1"></a>                                      <span class="at">z =</span> eez_raster, </span>
+<span id="cb3-43"><a href="#cb3-43" aria-hidden="true" tabindex="-1"></a>                                      <span class="at">fun =</span><span class="st">"sum"</span>, </span>
+<span id="cb3-44"><a href="#cb3-44" aria-hidden="true" tabindex="-1"></a>                                      <span class="at">na.rm =</span> <span class="cn">TRUE</span>)))</span>
+<span id="cb3-45"><a href="#cb3-45" aria-hidden="true" tabindex="-1"></a>  </span>
+<span id="cb3-46"><a href="#cb3-46" aria-hidden="true" tabindex="-1"></a>  <span class="co"># Join to EEZ vector to create geo-dataframe to map</span></span>
+<span id="cb3-47"><a href="#cb3-47" aria-hidden="true" tabindex="-1"></a>  map_df <span class="ot">&lt;-</span> <span class="fu">left_join</span>(west_coast_eez, area, <span class="at">by =</span> <span class="st">'rgn'</span>) <span class="sc">%&gt;%</span></span>
+<span id="cb3-48"><a href="#cb3-48" aria-hidden="true" tabindex="-1"></a>  <span class="fu">select</span>(<span class="st">'rgn'</span>, <span class="st">'area'</span>, <span class="st">'area_km2'</span>) <span class="sc">%&gt;%</span></span>
+<span id="cb3-49"><a href="#cb3-49" aria-hidden="true" tabindex="-1"></a>  <span class="fu">mutate</span>(<span class="at">area_rounded =</span> <span class="fu">round</span>(area),</span>
+<span id="cb3-50"><a href="#cb3-50" aria-hidden="true" tabindex="-1"></a>         <span class="at">Percent =</span> <span class="fu">round</span>(area<span class="sc">/</span>area_km2<span class="sc">*</span><span class="dv">100</span>, <span class="dv">2</span>)) <span class="sc">%&gt;%</span></span>
+<span id="cb3-51"><a href="#cb3-51" aria-hidden="true" tabindex="-1"></a>  <span class="fu">mutate</span>(<span class="at">labels =</span> <span class="fu">paste0</span>(rgn, <span class="st">": "</span>, <span class="st">"</span><span class="sc">\n</span><span class="st">"</span>, area_rounded, <span class="st">" km^2"</span>))</span>
+<span id="cb3-52"><a href="#cb3-52" aria-hidden="true" tabindex="-1"></a>  </span>
+<span id="cb3-53"><a href="#cb3-53" aria-hidden="true" tabindex="-1"></a>  <span class="co"># Map suitable area by EEZ region</span></span>
+<span id="cb3-54"><a href="#cb3-54" aria-hidden="true" tabindex="-1"></a>  suitability_map <span class="ot">&lt;-</span> <span class="fu">tm_shape</span>(avg_sst) <span class="sc">+</span></span>
+<span id="cb3-55"><a href="#cb3-55" aria-hidden="true" tabindex="-1"></a>    <span class="fu">tm_raster</span>(<span class="at">palette =</span> <span class="st">"Greys"</span>,</span>
+<span id="cb3-56"><a href="#cb3-56" aria-hidden="true" tabindex="-1"></a>            <span class="at">title =</span> <span class="st">"Mean SST (C)"</span>) <span class="sc">+</span></span>
+<span id="cb3-57"><a href="#cb3-57" aria-hidden="true" tabindex="-1"></a>    <span class="fu">tm_shape</span>(map_df) <span class="sc">+</span></span>
+<span id="cb3-58"><a href="#cb3-58" aria-hidden="true" tabindex="-1"></a>    <span class="fu">tm_polygons</span>(<span class="at">title =</span> <span class="st">"Suitable Area </span><span class="sc">\n</span><span class="st">(km^2)"</span>,</span>
+<span id="cb3-59"><a href="#cb3-59" aria-hidden="true" tabindex="-1"></a>              <span class="at">col =</span> <span class="st">'area_rounded'</span>,</span>
+<span id="cb3-60"><a href="#cb3-60" aria-hidden="true" tabindex="-1"></a>              <span class="at">palette =</span> <span class="st">"Purples"</span>,</span>
+<span id="cb3-61"><a href="#cb3-61" aria-hidden="true" tabindex="-1"></a>              <span class="at">legend.show =</span> <span class="cn">TRUE</span>) <span class="sc">+</span></span>
+<span id="cb3-62"><a href="#cb3-62" aria-hidden="true" tabindex="-1"></a>  <span class="fu">tm_text</span>(<span class="st">"labels"</span>, <span class="at">size =</span> <span class="dv">1</span><span class="sc">/</span><span class="dv">2</span>) <span class="sc">+</span></span>
+<span id="cb3-63"><a href="#cb3-63" aria-hidden="true" tabindex="-1"></a>  <span class="fu">tm_layout</span>(<span class="at">main.title =</span> <span class="fu">paste</span>(<span class="st">"Suitable"</span>, species_name, <span class="st">"Habitat"</span>),</span>
+<span id="cb3-64"><a href="#cb3-64" aria-hidden="true" tabindex="-1"></a>          <span class="at">legend.position =</span> <span class="fu">c</span>(<span class="st">"right"</span>, <span class="st">"top"</span>),</span>
+<span id="cb3-65"><a href="#cb3-65" aria-hidden="true" tabindex="-1"></a>          <span class="at">bg.color =</span> <span class="st">"white"</span>,</span>
+<span id="cb3-66"><a href="#cb3-66" aria-hidden="true" tabindex="-1"></a>          <span class="at">legend.outside =</span> <span class="cn">FALSE</span>) <span class="sc">+</span></span>
+<span id="cb3-67"><a href="#cb3-67" aria-hidden="true" tabindex="-1"></a>  <span class="fu">tm_compass</span>(<span class="at">position =</span> <span class="fu">c</span>(<span class="st">"left"</span>, <span class="st">"bottom"</span>)) <span class="sc">+</span></span>
+<span id="cb3-68"><a href="#cb3-68" aria-hidden="true" tabindex="-1"></a>  <span class="fu">tm_scale_bar</span>(<span class="at">position =</span> <span class="fu">c</span>(<span class="st">"left"</span>, <span class="st">"bottom"</span>))</span>
+<span id="cb3-69"><a href="#cb3-69" aria-hidden="true" tabindex="-1"></a>  map_name <span class="ot">&lt;-</span> <span class="fu">paste0</span>(species_name, <span class="st">"_map"</span>)</span>
+<span id="cb3-70"><a href="#cb3-70" aria-hidden="true" tabindex="-1"></a>  <span class="fu">assign</span>(map_name, suitability_map)</span>
+<span id="cb3-71"><a href="#cb3-71" aria-hidden="true" tabindex="-1"></a>  </span>
+<span id="cb3-72"><a href="#cb3-72" aria-hidden="true" tabindex="-1"></a>  <span class="fu">return</span>(suitability_map)</span>
+<span id="cb3-73"><a href="#cb3-73" aria-hidden="true" tabindex="-1"></a>}</span></code><button title="Copy to Clipboard" class="code-copy-button"><i class="bi"></i></button></pre></div>
+</details>
+</div>
+</section>
+<section id="use-function" class="level2">
+<h2 class="anchored" data-anchor-id="use-function">Use Function</h2>
+<div class="cell">
+<details class="code-fold">
+<summary>Expand code</summary>
+<div class="sourceCode cell-code" id="cb4"><pre class="sourceCode r code-with-copy"><code class="sourceCode r"><span id="cb4-1"><a href="#cb4-1" aria-hidden="true" tabindex="-1"></a><span class="fu">suitability</span>(<span class="st">"Oyster"</span>, <span class="dv">11</span>, <span class="dv">30</span>, <span class="dv">0</span>, <span class="dv">70</span>)</span></code><button title="Copy to Clipboard" class="code-copy-button"><i class="bi"></i></button></pre></div>
 </details>
 <div class="cell-output-display">
 <div>
 <figure class="figure">
-<p><img src="functions_files/figure-html/unnamed-chunk-3-1.png" class="img-fluid figure-img" width="672"></p>
+<p><img src="functions_files/figure-html/unnamed-chunk-4-1.png" class="img-fluid figure-img" width="672"></p>
 </figure>
 </div>
 </div>
 <details class="code-fold">
-<summary>Code</summary>
-<div class="sourceCode cell-code" id="cb4"><pre class="sourceCode r code-with-copy"><code class="sourceCode r"><span id="cb4-1"><a href="#cb4-1" aria-hidden="true" tabindex="-1"></a><span class="fu">suitability</span>(<span class="st">"Red Abalone"</span>, <span class="dv">8</span>, <span class="dv">18</span>, <span class="dv">0</span>, <span class="dv">24</span>) </span></code><button title="Copy to Clipboard" class="code-copy-button"><i class="bi"></i></button></pre></div>
+<summary>Expand code</summary>
+<div class="sourceCode cell-code" id="cb5"><pre class="sourceCode r code-with-copy"><code class="sourceCode r"><span id="cb5-1"><a href="#cb5-1" aria-hidden="true" tabindex="-1"></a><span class="fu">suitability</span>(<span class="st">"Abalone"</span>, <span class="dv">8</span>, <span class="dv">18</span>, <span class="dv">0</span>, <span class="dv">24</span>) </span></code><button title="Copy to Clipboard" class="code-copy-button"><i class="bi"></i></button></pre></div>
 </details>
 <div class="cell-output-display">
 <div>
 <figure class="figure">
-<p><img src="functions_files/figure-html/unnamed-chunk-3-2.png" class="img-fluid figure-img" width="672"></p>
+<p><img src="functions_files/figure-html/unnamed-chunk-4-2.png" class="img-fluid figure-img" width="672"></p>
 </figure>
 </div>
 </div>
@@ -311,12 +316,6 @@ pre > code.sourceCode > span > a:first-child::before { text-decoration: underlin
 <section id="data-sources" class="level2">
 <h2 class="anchored" data-anchor-id="data-sources">Data Sources</h2>
 <table class="caption-top table">
-<colgroup>
-<col style="width: 25%">
-<col style="width: 25%">
-<col style="width: 25%">
-<col style="width: 25%">
-</colgroup>
 <thead>
 <tr class="header">
 <th>Data</th>
@@ -329,25 +328,25 @@ pre > code.sourceCode > span > a:first-child::before { text-decoration: underlin
 <tr class="odd">
 <td>Species Requirements for Red Abalone</td>
 <td>Bisby, F.A., M.A.&nbsp;Ruggiero, K.L. Wilson, M. Cachuela-Palacio, S.W. Kimani, Y.R. Roskov, A. Soulier-Perkins and J. van Hertum. 2005. (via SeaLifeBase)</td>
-<td>https://www.sealifebase.ca/summary/Haliotis-rufescens.html</td>
+<td><a href="https://www.sealifebase.ca/summary/Haliotis-rufescens.html">https://www.sealifebase.ca/summary/Haliotis-rufescens.html</a></td>
 <td></td>
 </tr>
 <tr class="even">
 <td>Sea Surface Temperature Data</td>
 <td>NOAA Coral Reef Watch. 2018, updated daily. Daily Global 5km Satellite Sea Surface Temperature Anomaly (Version 3.1, released August 1, 2018). College Park, Maryland, USA: NOAA Coral Reef Watch</td>
-<td>https://coralreefwatch.noaa.gov/product/vs/data.php</td>
+<td><a href="https://coralreefwatch.noaa.gov/product/vs/data.php">https://coralreefwatch.noaa.gov/product/vs/data.php</a></td>
 <td></td>
 </tr>
 <tr class="odd">
 <td>Bathymetry Data</td>
 <td>GEBCO Compilation Group (2024) GEBCO 2024 Grid (doi:10.5285/1c44ce99-0a0d-5f4f-e063-7086abc0ea0f)</td>
-<td>https://www.gebco.net/data_and_products/gridded_bathymetry_data/#area</td>
+<td><a href="https://www.gebco.net/data_and_products/gridded_bathymetry_data/#area">https://www.gebco.net/data_and_products/gridded_bathymetry_data/#area</a></td>
 <td></td>
 </tr>
 <tr class="even">
 <td>EEZ Boundary</td>
 <td>MarineRegions. nd. EEZ Boundaries.</td>
-<td>https://www.marineregions.org/eez.php</td>
+<td><a href="https://www.marineregions.org/eez.php">https://www.marineregions.org/eez.php</a></td>
 <td></td>
 </tr>
 </tbody>
